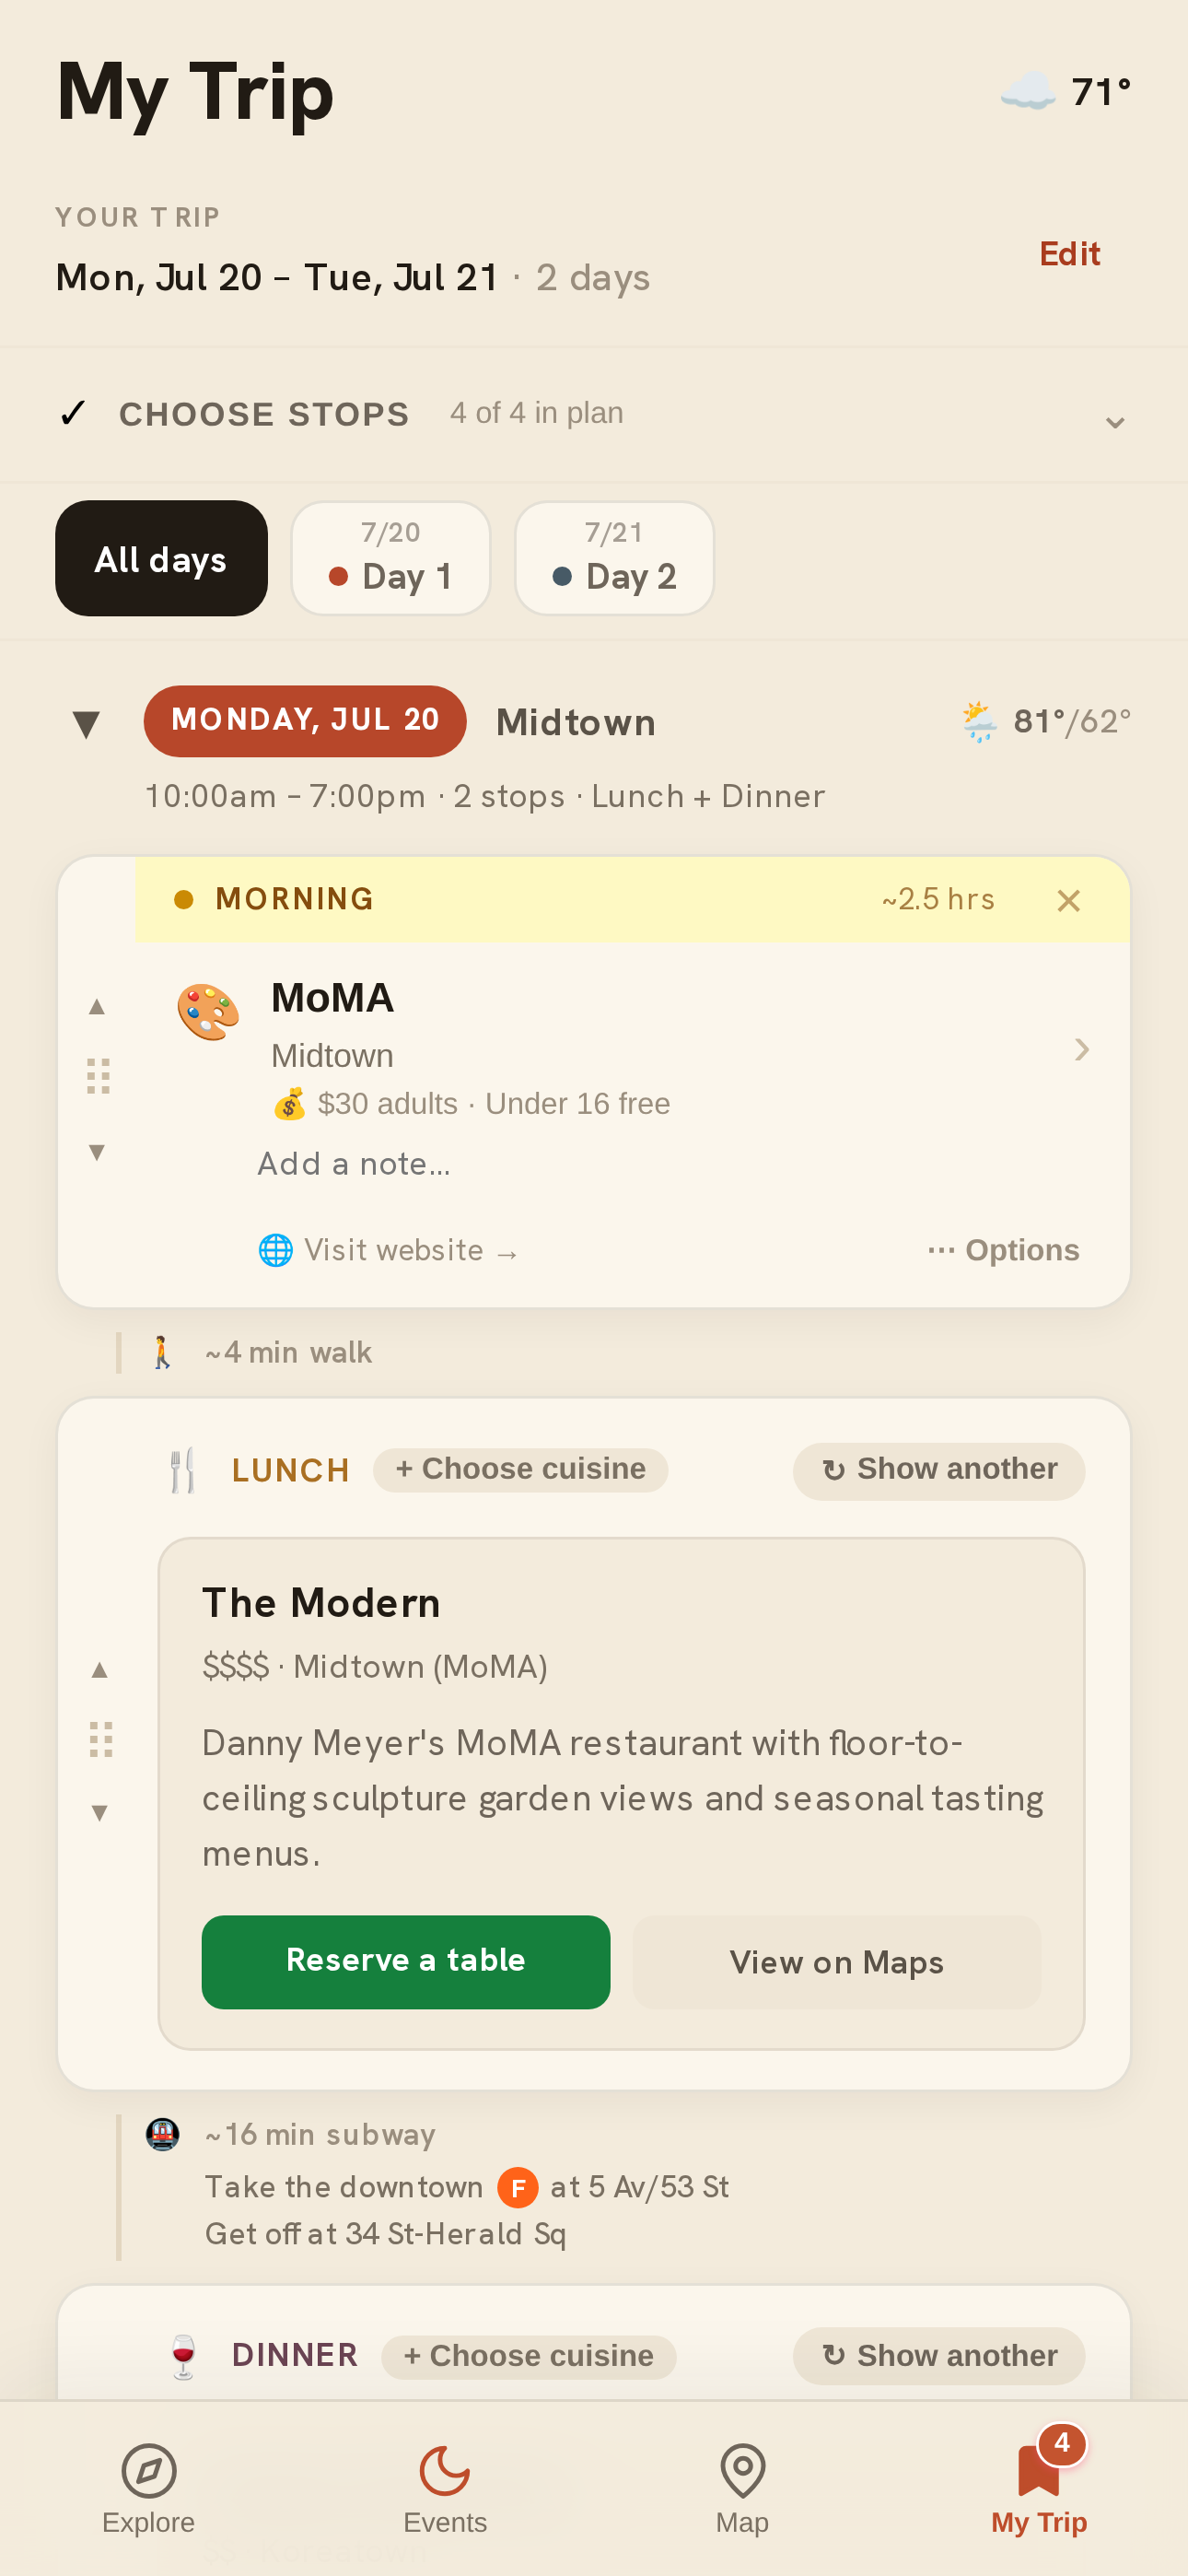
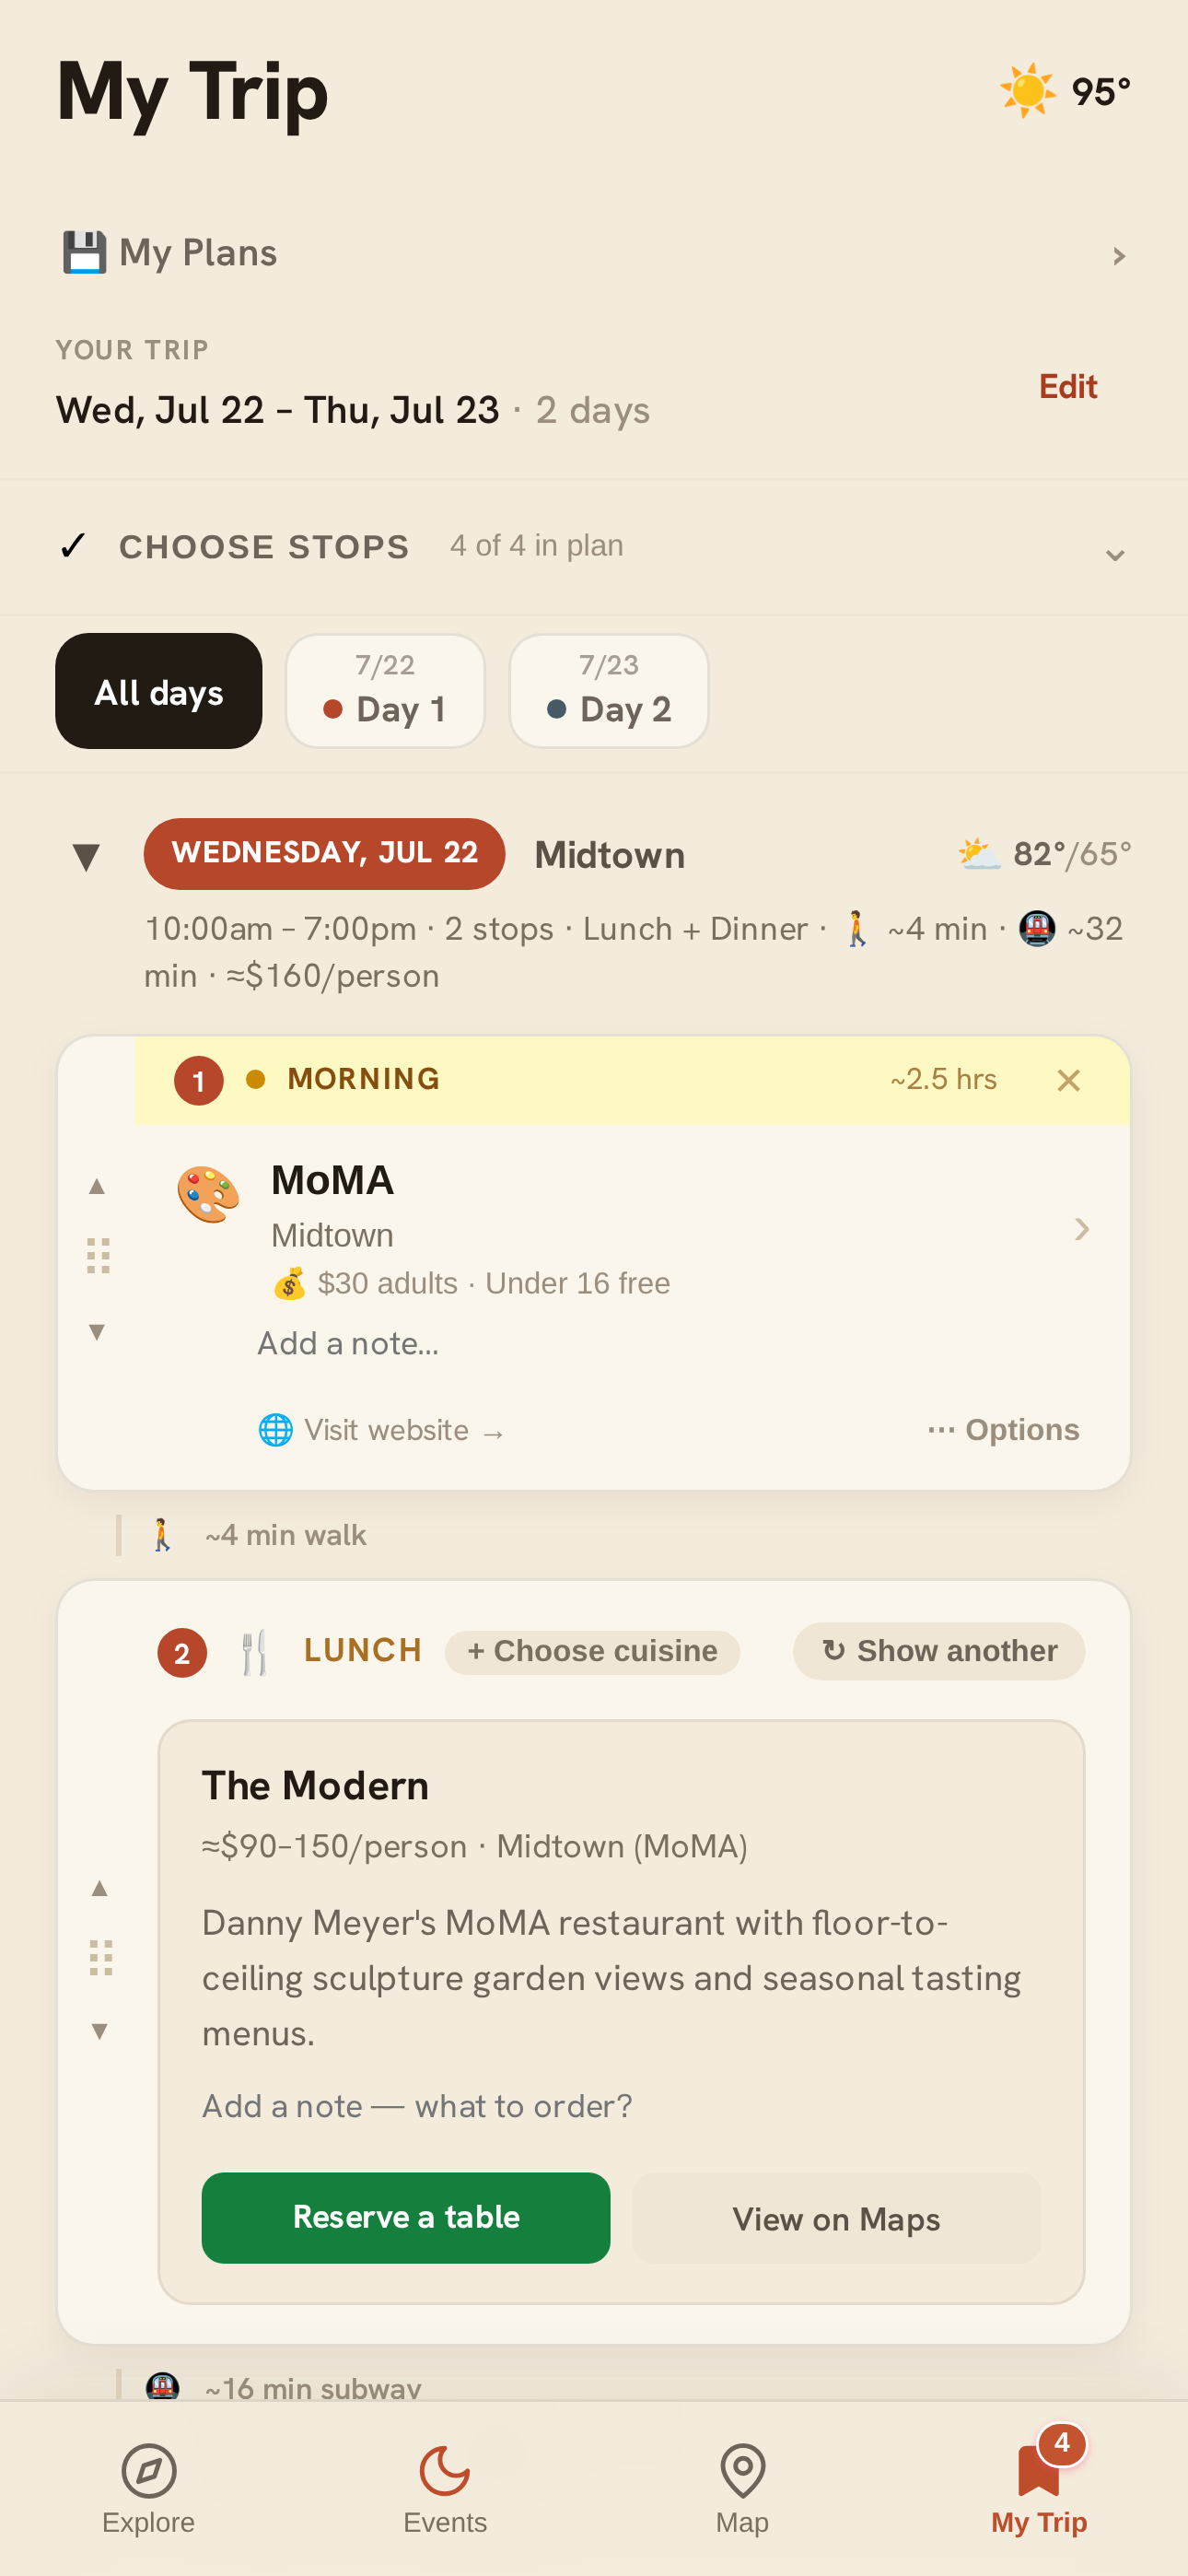
Update queens

diff --git a/src/App.jsx b/src/App.jsx
@@ -11,7 +11,7 @@ import {
 // Auth: localStorage helpers, API client, and UI components.
 import {
   getToken, getUser, setToken as authSetToken, setUser as authSetUser,
-  signOut as authSignOut, fetchMe, updateDisplayName,
+  signOut as authSignOut, fetchMe, updateDisplayName, deleteAccount,
   getProfileOverlay, setAvatar as authSetAvatar, setNickname as authSetNickname,
   resizeImageFile,
 } from './auth/api'
@@ -100,8 +100,9 @@ const NEIGHBORHOOD_GROUPS = [
   { key: 'harlem',          label: 'Harlem',            emoji: '🎶', match: n => /harlem/i.test(n) },
   // ── Outer boroughs, by venue density ──
   { key: 'brooklyn',        label: 'Brooklyn',          emoji: '🌉', match: n => /brooklyn|dumbo|greenpoint|williamsburg|bushwick|fort greene|clinton hill|prospect heights|park slope|crown heights/i.test(n) },
-  { key: 'queens',          label: 'Queens',            emoji: '🎺', match: n => /queens/i.test(n),    comingSoon: true,
-    tease: 'Long Island City, Astoria, Flushing, and the Rockaways. Coming soon.' },
+  // Queens went live 2026-07-14 (Citi Field, Arthur Ashe, Louis Armstrong
+  // House); LIC/Astoria/Rockaways depth still to come.
+  { key: 'queens',          label: 'Queens',            emoji: '🎺', match: n => /queens|corona|flushing|astoria|long island city/i.test(n) },
   // The Bronx went live 2026-07-14 with its big three (Yankee Stadium, the
   // Zoo, the Botanical Garden); Arthur Avenue et al. still to come.
   { key: 'bronx',           label: 'The Bronx',         emoji: '⚾', match: n => /bronx/i.test(n) },
@@ -7596,6 +7597,7 @@ const NAV_ICON_PATHS = {
   trash:    <><path d="M3 6h18"/><path d="M19 6v14a2 2 0 0 1-2 2H7a2 2 0 0 1-2-2V6"/><path d="M8 6V4a2 2 0 0 1 2-2h4a2 2 0 0 1 2 2v2"/></>,
   key:      <><circle cx="7.5" cy="15.5" r="5.5"/><path d="m21 2-9.6 9.6"/><path d="m15.5 7.5 3 3L22 7l-3-3"/></>,
   heart:    <path d="M19 14c1.49-1.46 3-3.21 3-5.5A5.5 5.5 0 0 0 16.5 3c-1.76 0-3 .5-4.5 2-1.5-1.5-2.74-2-4.5-2A5.5 5.5 0 0 0 2 8.5c0 2.3 1.5 4.05 3 5.5l7 7Z"/>,
+  image:    <><rect x="3" y="3" width="18" height="18" rx="2"/><circle cx="9" cy="9" r="2"/><path d="m21 15-3.086-3.086a2 2 0 0 0-2.828 0L6 21"/></>,
 }
 // Icons that read correctly when solid-filled. Multi-part icons (compass,
 // map-pin, utensils) turn into blobs when filled — those signal "active" with
@@ -7806,13 +7808,16 @@ function MapScreen({ onSelectVenue, highlight = null, onClearHighlight = null, s
   const [userLoc, setUserLoc]       = useState(null)   // {lat,lng} | null
   const [geoStatus, setGeoStatus]   = useState('idle') // idle | locating | denied
   const userMarkerRef = useRef(null)
-  const [legendOpen, setLegendOpen] = useState(true)
+  const savedVenueCount = Object.keys(savedItems || {}).filter(k => k.startsWith('venue:') && savedItems[k]).length
+  // Legend defaults open only while the Go-to-My-Trip pill is absent — once
+  // anything is saved the pill occupies bottom-center, and an expanded legend
+  // collides with it on ≤375pt screens (review S-1). Users can still expand.
+  const [legendOpen, setLegendOpen] = useState(savedVenueCount === 0)
   // One-time coach card for first-time Map visitors (dismiss = never again).
   const [showMapTut, setShowMapTut] = useState(() => {
     try { return !localStorage.getItem('nyc_map_tut_v1') } catch { return false }
   })
   const dismissMapTut = () => { setShowMapTut(false); try { lsSet('nyc_map_tut_v1', '1') } catch {} }
-  const savedVenueCount = Object.keys(savedItems || {}).filter(k => k.startsWith('venue:') && savedItems[k]).length
 
   // Load Leaflet JS dynamically (CSS already in index.html), then the rotate
   // plugin (two-finger rotate / Shift+drag / compass reset). The plugin is a
@@ -14771,6 +14776,61 @@ const APP_VERSION = '1.0.0'
 const FEEDBACK_EMAIL = '[email redacted]'
 const PRIVACY_URL = 'https://stevenwang415.github.io/nyc-stoop/privacy.html'
 
+// ── Image credits — CC BY / BY-SA attribution for the Wikimedia Commons
+// photography (license terms ask for attribution WITH the work; a credits
+// page reachable from Settings is the standard app-scale answer). Each row
+// links to the file's Commons page, which carries author + license.
+function ImageCreditsPage({ onClose }) {
+  const rows = Object.entries(venueImages).map(([vid, url]) => {
+    let file = ''
+    try { file = decodeURIComponent(String(url).split('Special:FilePath/')[1].split('?')[0]) } catch {}
+    return { vid, name: venues[vid]?.name || vid, file }
+  }).filter(r => r.file).sort((a, b) => a.name.localeCompare(b.name))
+  return (
+    <div style={{
+      position: 'fixed', top: 0, bottom: 0,
+      left: '50%', transform: 'translateX(-50%)',
+      width: '100%', maxWidth: 'var(--max-width, 480px)',
+      zIndex: 600, background: 'var(--canvas)',
+      overflowY: 'auto', WebkitOverflowScrolling: 'touch',
+    }}>
+      <div style={{
+        position: 'sticky', top: 0, zIndex: 5, background: 'var(--canvas)',
+        padding: 'calc(env(safe-area-inset-top, 0px) + 10px) 16px 10px',
+        display: 'flex', alignItems: 'center', gap: 10, borderBottom: '1px solid var(--gray-100)',
+      }}>
+        <button onClick={onClose} aria-label="Back" style={{
+          border: 'none', background: 'var(--card)', borderRadius: 999, width: 34, height: 34,
+          cursor: 'pointer', color: 'var(--ink)', fontSize: 16, lineHeight: 1, flexShrink: 0,
+          boxShadow: 'inset 0 0 0 1px rgba(33,27,20,0.10)',
+        }}>←</button>
+        <div style={{ fontFamily: 'var(--serif)', fontSize: 19, fontWeight: 600, color: 'var(--ink)' }}>{t('Image credits')}</div>
+      </div>
+      <div style={{ padding: '18px 20px calc(40px + env(safe-area-inset-bottom, 0px))' }}>
+        <div style={{ fontSize: 12.5, color: 'var(--gray-500)', lineHeight: 1.6, marginBottom: 16 }}>
+          Venue photography comes from Wikimedia Commons contributors under CC BY,
+          CC BY-SA, and public-domain licenses — tap any row for the photographer
+          and exact license. Artwork images are public domain or credited on the
+          work's page. Restaurant photos from Google are credited where shown.
+        </div>
+        {rows.map(r => (
+          <a key={r.vid}
+            href={`https://commons.wikimedia.org/wiki/File:${encodeURIComponent(r.file)}`}
+            target="_blank" rel="noopener noreferrer"
+            style={{
+              display: 'flex', alignItems: 'baseline', gap: 8, padding: '8px 0',
+              borderBottom: '1px solid var(--gray-100)', textDecoration: 'none',
+            }}>
+            <span style={{ fontSize: 13, fontWeight: 600, color: 'var(--ink)', flexShrink: 0 }}>{r.name}</span>
+            <span style={{ fontSize: 11, color: 'var(--gray-400)', overflow: 'hidden', textOverflow: 'ellipsis', whiteSpace: 'nowrap', minWidth: 0 }}>{r.file}</span>
+            <span style={{ marginLeft: 'auto', fontSize: 11, color: 'var(--gray-400)', flexShrink: 0 }}>↗</span>
+          </a>
+        ))}
+      </div>
+    </div>
+  )
+}
+
 // ── Send Feedback — one shared page, reachable from My Trip's footer,
 // Settings, and coming-soon neighborhoods. Sends IN-APP via POST /feedback
 // (stored in the app database — no mail composer). If the API is unreachable,
@@ -14873,6 +14933,7 @@ function SettingsModal({
   onPrefsChange = () => {},   // language / temperature unit changed — re-render app
   onOpenSavedPlaces = () => {}, // jump to My Trip with the saved-places page open
   onOpenFeedback = () => {},    // open the shared Send Feedback page
+  onOpenCredits = () => {},     // open the Image credits page (CC attribution)
 }) {
   const [confirmClear, setConfirmClear] = React.useState(false)
   const [authOpen, setAuthOpen]         = React.useState(false)
@@ -14936,6 +14997,28 @@ function SettingsModal({
   function handleSignOut() {
     authSignOut()
     onSignedOut?.()
+  }
+
+  // Account deletion — required in-app by App Review 5.1.1(v). Two-tap
+  // confirm; on success the server row is gone, so we just sign out locally.
+  // Local trip data is deliberately kept — it belongs to the device, and
+  // deleting an account shouldn't eat someone's plan.
+  const [confirmDeleteAccount, setConfirmDeleteAccount] = React.useState(false)
+  const [deletingAccount, setDeletingAccount] = React.useState(false)
+  const [deleteAccountError, setDeleteAccountError] = React.useState('')
+  async function handleDeleteAccount() {
+    setDeletingAccount(true)
+    setDeleteAccountError('')
+    try {
+      await deleteAccount()
+      authSignOut()
+      onSignedOut?.()
+      setConfirmDeleteAccount(false)
+    } catch (e) {
+      setDeleteAccountError(e?.message || 'Could not delete the account — try again.')
+    } finally {
+      setDeletingAccount(false)
+    }
   }
 
   function handleClearLocalData() {
@@ -15180,6 +15263,41 @@ function SettingsModal({
               <span style={{ fontSize: 14, color: 'var(--gray-400)' }}>›</span>
             </button>
           )}
+          {/* Delete account — in-app deletion is required by App Review
+              5.1.1(v). Two-tap confirm; local trip data is kept. */}
+          {user && !confirmDeleteAccount && (
+            <button onClick={() => setConfirmDeleteAccount(true)} style={{ ...rowStyle, color: '#b91c1c' }}>
+              <span style={{ display: 'inline-flex' }}><NavIcon name="trash" size={18} /></span>
+              <span style={labelStyle}>{t('Delete account')}</span>
+              <span style={{ fontSize: 14, color: '#fca5a5' }}>›</span>
+            </button>
+          )}
+          {user && confirmDeleteAccount && (
+            <div style={{ padding: '16px 20px 18px', background: '#fef2f2', borderTop: '1px solid #fecaca' }}>
+              <div style={{ fontSize: 14, fontWeight: 700, color: '#7f1d1d', marginBottom: 4 }}>
+                {t('Delete your account?')}
+              </div>
+              <div style={{ fontSize: 12, color: '#991b1b', lineHeight: 1.5, marginBottom: 14 }}>
+                {t('This permanently deletes your account and sign-in from our servers. It cannot be undone. Your saves and trip plan stay on this device.')}
+              </div>
+              {deleteAccountError && (
+                <div style={{ fontSize: 12, color: '#7f1d1d', background: '#fee2e2', padding: '8px 12px', borderRadius: 10, marginBottom: 10 }}>{deleteAccountError}</div>
+              )}
+              <div style={{ display: 'flex', gap: 8 }}>
+                <button onClick={() => { setConfirmDeleteAccount(false); setDeleteAccountError('') }} style={{
+                  flex: 1, padding: '10px 14px', background: 'var(--white)',
+                  border: '1px solid var(--gray-300)', borderRadius: 10,
+                  fontSize: 14, fontWeight: 600, color: 'var(--gray-700)', cursor: 'pointer', fontFamily: 'inherit',
+                }}>{t('Cancel')}</button>
+                <button onClick={handleDeleteAccount} disabled={deletingAccount} style={{
+                  flex: 1, padding: '10px 14px', background: '#dc2626',
+                  border: 'none', borderRadius: 10, color: '#fff',
+                  fontSize: 14, fontWeight: 700, cursor: deletingAccount ? 'default' : 'pointer', fontFamily: 'inherit',
+                  opacity: deletingAccount ? 0.7 : 1,
+                }}>{deletingAccount ? t('Deleting…') : t('Yes, delete it')}</button>
+              </div>
+            </div>
+          )}
           {/* One-time bulk import for places already saved in Google Maps */}
           <button onClick={() => { onClose?.(); onImportTakeout?.() }} style={rowStyle}>
             <span style={{ display: 'inline-flex', color: 'var(--gray-500)' }}><NavIcon name="download" size={18} /></span>
@@ -15191,6 +15309,11 @@ function SettingsModal({
             <span style={labelStyle}>Privacy policy</span>
             <span style={{ fontSize: 14, color: 'var(--gray-400)' }}>↗</span>
           </a>
+          <button onClick={() => onOpenCredits?.()} style={rowStyle}>
+            <span style={{ display: 'inline-flex', color: 'var(--gray-500)' }}><NavIcon name="image" size={18} /></span>
+            <span style={labelStyle}>{t('Image credits')}</span>
+            <span style={{ fontSize: 14, color: 'var(--gray-400)' }}>›</span>
+          </button>
           <button onClick={() => onOpenFeedback?.()} style={rowStyle}>
             <span style={{ display: 'inline-flex', color: 'var(--gray-500)' }}><NavIcon name="mail" size={18} /></span>
             <span style={labelStyle}>{t('Send feedback')}</span>
@@ -15625,6 +15748,7 @@ export default function App() {
   const [savedPlacesReq, setSavedPlacesReq] = useState(0)
   const [importOpen, setImportOpen]     = useState(false)
   const [feedbackOpen, setFeedbackOpen] = useState(false)
+  const [creditsOpen, setCreditsOpen]   = useState(false)
   const [planNightOpen, setPlanNightOpen] = useState(false)
 
   // One-tap "Plan my night": seed a few editorial attractions for the chosen
@@ -16004,9 +16128,11 @@ export default function App() {
           onPrefsChange={onPrefsChange}
           onOpenSavedPlaces={() => { setSettingsOpen(false); setSavedSel(null); setActiveTab('saved'); setSavedPlacesReq(v => v + 1) }}
           onOpenFeedback={() => { setSettingsOpen(false); setFeedbackOpen(true) }}
+          onOpenCredits={() => { setSettingsOpen(false); setCreditsOpen(true) }}
         />
       )}
       {feedbackOpen && <FeedbackPage onClose={() => setFeedbackOpen(false)} user={user} />}
+      {creditsOpen && <ImageCreditsPage onClose={() => setCreditsOpen(false)} />}
     </div>
   )
 }

diff --git a/src/data/content.js b/src/data/content.js
@@ -616,6 +616,27 @@ export const venues = {
     familyFriendly: true,
     insiderTip: `Go on a Wednesday: grounds admission is free for NYC residents all day and for everyone from 10 to 11am. The Haupt Conservatory upgrade is the one worth paying for — especially during the Orchid Show.`,
   },
+  louis_armstrong_house: {
+    id: 'louis_armstrong_house',
+    name: `Louis Armstrong House`,
+    fullName: 'Louis Armstrong House Museum',
+    neighborhood: 'Corona, Queens',
+    address: '34-56 107th St, Corona, NY 11368 (visits start at the Louis Armstrong Center, 34-49 107th St)',
+    hours: 'Thu–Sat 11am–4pm · house shown by guided 40-min tours on the hour (last tour 3pm)',
+    ticketUrl: 'https://www.louisarmstronghouse.org/visit/',
+    scheduleUrl: 'https://www.louisarmstronghouse.org/visit/',
+    mapUrl: 'https://maps.google.com/?q=Louis+Armstrong+House+Museum+Corona+Queens',
+    color: '#8a5a2b',
+    accentColor: '#ffffff',
+    description: `The modest Corona house where the most famous musician on Earth chose to live for 28 years — preserved exactly as Louis and Lucille left it, down to the gold bathroom fixtures and the den full of reel-to-reel tapes.`,
+    character: `Louis Armstrong could have lived anywhere in the world. He bought a small brick house on a working-class block in Corona in 1943 and stayed until his death in 1971 — answering the door for neighborhood kids, eating at the corner Chinese restaurant, taping himself talking and playing in his den. The house is a National Historic Landmark preserved as Lucille kept it: turquoise kitchen, mirrored bathroom, the den with his tapes and trumpets. Across the street, the new Louis Armstrong Center holds the archives — 60,000 items, the largest for any jazz musician. The guided tour is 40 minutes of the most intimate musician's-house experience in America, and the block itself is the point: the world's greatest entertainer, home in Queens.`,
+    specialties: ['Guided House Tours', 'Louis Armstrong Center & Archives', "Lucille's Garden", 'National Historic Landmark'],
+    admissionCost: `$20 adults · $14 seniors · under 5 free`,
+    visitDuration: `1–1.5 hours`,
+    bookingNote: `Tours on the hour, Thu–Sat only — book ahead; groups are small`,
+    familyFriendly: true,
+    insiderTip: `Tours start across the street at the Louis Armstrong Center — arrive early and see the archive exhibit first, then take the 40-minute house tour. Satchmo's den, with his own tape collages playing, is the room people cry in.`,
+  },
   msg: {
     id: 'msg',
     name: `Madison Square Garden`,

diff --git a/src/auth/api.js b/src/auth/api.js
@@ -171,6 +171,12 @@ export async function updateDisplayName(displayName) {
   return request(`/auth/me?${qs.toString()}`, { method: 'PATCH', auth: true })
 }
 
+/** Permanently delete the signed-in account (App Review 5.1.1(v)).
+ *  Caller is responsible for signOut() + local-state cleanup afterwards. */
+export async function deleteAccount() {
+  return request('/auth/me', { method: 'DELETE', auth: true })
+}
+
 
 // ── Avatar resize helper (canvas + FileReader) ────────────────────────────
 /** Resize a File to a max 256x256 JPEG data URL at 85% quality.

diff --git a/src/data/venueImages.js b/src/data/venueImages.js
@@ -88,6 +88,8 @@ export const venueImages = {
   // ── The Bronx (added 2026-07-14; both files API-verified, CC BY-SA 3.0) ──
   bronx_zoo:              wm('Entrance to Bronx Zoo 2008.jpg'),
   ny_botanical_garden:    wm('New York Botanical Garden April 2015 010.jpg'),
+  // ── Queens (added 2026-07-14; API-verified, CC BY-SA 3.0) ──
+  louis_armstrong_house:  wm('Louis Armstrong House 02.jpg'),
 
   // ── Food / markets ──
   katzs:                  wm('KatzGentrificationLES.JPG'),

diff --git a/src/data/venueMeta.js b/src/data/venueMeta.js
@@ -33,6 +33,7 @@ export const venueColors = {
   yankee_stadium:      { bg: '#0c1a2e', text: '#ffffff' },
   bronx_zoo:           { bg: '#2d5a3d', text: '#ffffff' },
   ny_botanical_garden: { bg: '#3d6b35', text: '#ffffff' },
+  louis_armstrong_house: { bg: '#8a5a2b', text: '#ffffff' },
   msg:                 { bg: '#1a1a1a', text: '#f59e0b' },
   citi_field:          { bg: '#003087', text: '#ffffff' },
   arthur_ashe_stadium: { bg: '#003580', text: '#ffffff' },
@@ -150,6 +151,7 @@ export const venueCoords = {
   // outdoor/landmark places (Central Park and the High Line use it too).
   bronx_zoo:           { lat: 40.8506, lng: -73.8770, domain: 'architecture',    address: '2300 Southern Blvd, The Bronx' },
   ny_botanical_garden: { lat: 40.8623, lng: -73.8802, domain: 'architecture',    address: '2900 Southern Blvd, The Bronx' },
+  louis_armstrong_house: { lat: 40.7547, lng: -73.8618, domain: 'jazz',          address: '34-56 107th St, Corona, Queens' },
   msg:                 { lat: 40.7505, lng: -73.9934, domain: 'sports',          address: '4 Pennsylvania Plaza, Midtown' },
   citi_field:          { lat: 40.7571, lng: -73.8458, domain: 'sports',          address: '41 Seaver Way, Flushing, Queens' },
   arthur_ashe_stadium: { lat: 40.7502, lng: -73.8472, domain: 'sports',          address: '124-02 Roosevelt Ave, Flushing' },

diff --git a/backend/auth.py b/backend/auth.py
@@ -331,3 +331,23 @@ def update_me(
     db.commit()
     db.refresh(current_user)
     return _to_public(current_user)
+
+
[email redacted]("/me")
+def delete_me(
+    current_user: User = Depends(get_current_user),
+    db: Session = Depends(get_db),
+) -> dict:
+    """Permanently delete the authenticated account (App Review 5.1.1(v)).
+
+    Hard delete: the user row goes away (password-reset tokens cascade via FK
+    or are orphan-safe). Trip data lives client-side in localStorage, so there
+    is nothing else server-side to scrub. Idempotent from the client's view —
+    the JWT stops resolving the moment the row is gone.
+    """
+    db.query(PasswordResetToken).filter(
+        PasswordResetToken.user_id == current_user.id
+    ).delete(synchronize_session=False)
+    db.delete(current_user)
+    db.commit()
+    return {"ok": True, "deleted": True}

diff --git a/docs/reviews/APPSTORE_READINESS_2026-07-14.md b/docs/reviews/APPSTORE_READINESS_2026-07-14.md
@@ -1,0 +1,62 @@
+# APP STORE READINESS REVIEW — 2026-07-14 (strict; reviewer's lens)
+
+Two evaluations in one: the standing rubric (Review rules.md), then a
+guideline-by-guideline audit the way an App Review contractor would run it.
+The second one found a certain rejection and it has been fixed **today**.
+
+## Part 1 — Rubric scores (unchanged, deliberately)
+
+| Dimension | Maya | Tom & Rachel |
+|---|---|---|
+| Overall | **9.5** | **9.6** |
+
+No movement from this morning's review and that IS the strict call: everything
+shipped since (in-app feedback, account deletion, Bronx coverage, art
+thumbnails, show-card redesign, crash fixes) is either compliance work,
+content, or repair — the personas' journeys scored this morning are the same
+journeys tonight. Numbers move on behavior, not effort.
+
+## Part 2 — Apple guideline audit
+
+| Guideline | Status | Finding |
+|---|---|---|
+| **5.1.1(v) Account deletion** | 🟢 **FIXED TODAY — was a certain rejection** | The app offers account creation but had NO in-app deletion. Added: `DELETE /auth/me` (hard-deletes the user row + reset tokens) and a Settings → Delete account row with two-tap confirm. Local trip data deliberately survives. **Must deploy the backend BEFORE archiving the build.** |
+| 4.8 Sign in with Apple | 🟢 Pass | Third-party login (Google) present → Apple sign-in required: implemented, native, listed above Google. |
+| 5.1.1 Permissions & gating | 🟢 Pass | Location has a purpose string and the app never demands it; every core feature works signed-out; sign-in only gates sync. |
+| 2.1 Completeness (crashes) | 🟡 Pass w/ caution | The theater-topic crash (`isSaved`) would have been FOUND BY A REVIEWER tapping Musicals — fixed + full no-undef sweep says the class is extinct. Caution: three new surfaces (trip mini-map, rotation, scroll-snap) have never run on hardware. The device pass is the remaining gate. |
+| 2.1 Placeholder content | 🟡 Low risk | Queens still shows "Coming soon" (the Bronx went live today). One teaser section in an otherwise deep app is normally fine; the Suggest-a-place CTA makes it read intentional. Do NOT ship more than one. |
+| 4.2 Minimum functionality (web-wrapper) | 🟡 Medium risk, mitigated | Capacitor apps get 4.2 flags when they feel like websites. Mitigations in place: native Apple/Google sign-in, geolocation, app-like navigation, no browser chrome, offline-tolerant UI. If rejected: respond citing curated dataset + native auth + routing engine (plan already in PUBLISH_IOS.md — this passes on appeal regularly). |
+| 2.3 Accurate metadata | 🟡 Action | Screenshots were shot 07-08; My Trip has since gained route numbers, the mini-map, and budgets. Still truthful, but regenerate `appstore-03-mytrip` if time allows — the new tab is also simply a better selling shot. |
+| 5.1.2 / ATT | 🟢 Pass | No tracking, no ads, no third-party analytics. Nutrition labels: email+name (linked), coarse location (not linked), user ID. |
+| 3.1.1 Payments | 🟢 Pass | v1 is fully free; no IAP surface. ($3.99 unlock is v1.2's problem — with Restore Purchases when it comes.) |
+| 1.2 UGC | 🟢 N/A | Feedback is a private message to the developer, not user-generated content displayed to others. (Share/v1.1 will trigger the full UGC checklist — spec already covers it.) |
+| Export compliance | 🟢 Pass | `ITSAppUsesNonExemptEncryption=false` in the plist. |
+| Review account | 🔴 To do | Create a working demo account ON PROD and paste credentials into App Review notes. Reviewers reject fast when the listed login fails. |
+| 5.2 IP (defensive) | 🟡 Note | MTA license application sent (free-app tier); subway bullets stay. Commons CC BY-SA images: attribution currently lives on the Commons file pages, not in-app — legally thin. Post-launch: an "Image credits" row in Settings closes it. Fair-use images: purged. Google photos: attribution shown ✓. |
+| Launch/UI basics | 🟢 Pass | LaunchScreen storyboard (cream), icon 1024, portrait-only, iPhone-only, safe-areas handled. |
+
+## Part 3 — The verdict
+
+**Approvable — after three mechanical steps.** Nothing in the app's content or
+concept is a rejection risk; the risks are operational:
+
+1. **Deploy the backend now** (`git push`, verify `/feedback` and account
+   deletion on prod) — archiving an app whose Delete Account button 404s IS
+   the 5.1.1(v) rejection you just fixed.
+2. **Demo account on prod** → App Review notes, with one line: "Free curated
+   NYC guide; no payments; location optional; delete account under Settings →
+   account card."
+3. **Device pass** (the standing M-2): fresh install → three sign-ins → delete
+   a throwaway account → mood flows → theater topics → My Trip with map →
+   Eat toggle → Map rotation. One hour, retires every 2.1 scenario a reviewer
+   can hit.
+
+Optional but smart: regenerate the My Trip screenshot; note the legend/pill
+overlap (S-1) is cosmetic and not review-relevant — fix it in the same pass if
+time allows.
+
+## Bottom line
+
+This morning the app was a 9.5/9.6 product with a hidden guaranteed rejection
+in it. Tonight it's the same product without one. Deploy, demo account, device
+pass — then Archive with a clear conscience.